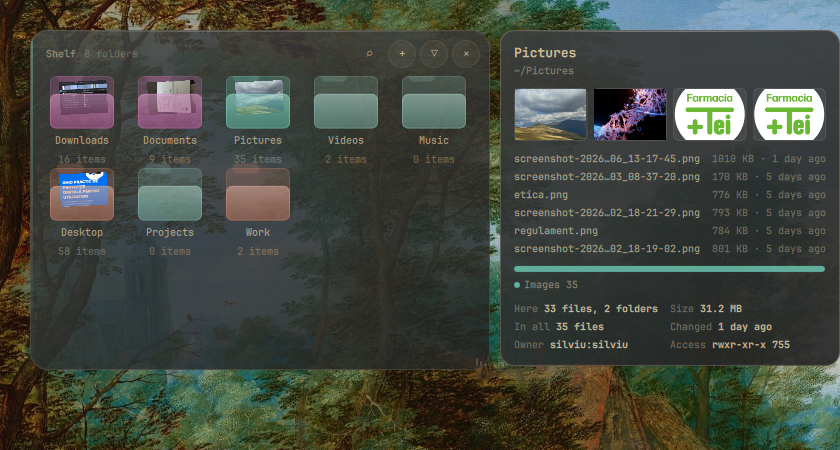
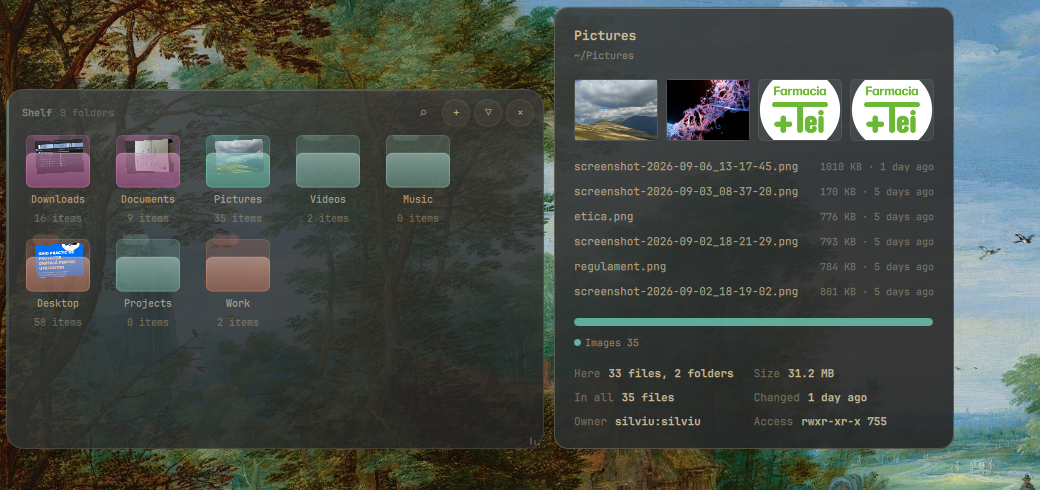
Give the shelf and the card room to breathe
Rows on the shelf now sit twice as far apart as columns do. A grid of
folders reads as rows of things, so the vertical rhythm is what separates
one shelf from the next; matching the two gaps made it read as one
undifferentiated field. List layout keeps the tighter gap, because its rows
are already tall enough to tell apart.

The preview card is wider and everything inside it has more air: larger
margins, more space between its four blocks, taller entry rows, and the
file names and the facts at body size instead of caption. It was legible
before and dense; the numbers are the reason to hover a folder and they
should not have to be hunted for.

preview.png is retaken against the running shelf rather than kept from the
previous layout, which is the listing card and the easiest thing here to
let go stale.

Claude-Session: https://claude.ai/code/session_01Kb27poufob8qsoZYukYW7Z

diff --git a/PreviewCard.qml b/PreviewCard.qml
@@ -33,8 +33,8 @@ Item {
     return n
   }
 
-  implicitWidth: Style.space(340)
-  implicitHeight: body.implicitHeight + Style.space(28)
+  implicitWidth: Style.space(400)
+  implicitHeight: body.implicitHeight + Style.space(40)
 
   GlassPanel {
     anchors.fill: parent
@@ -49,13 +49,13 @@ Item {
   Column {
     id: body
     anchors.fill: parent
-    anchors.margins: Style.space(14)
-    spacing: Style.space(10)
+    anchors.margins: Style.space(20)
+    spacing: Style.space(16)
 
     // ------------------------------------------------------------- heading
     Column {
       width: parent.width
-      spacing: Style.space(2)
+      spacing: Style.space(4)
 
       Text {
         width: parent.width
@@ -97,7 +97,7 @@ Item {
     Row {
       visible: card.thumbs.length > 0
       width: parent.width
-      spacing: Style.space(6)
+      spacing: Style.space(8)
 
       Repeater {
         model: card.thumbs
@@ -105,9 +105,9 @@ Item {
         Item {
           required property string modelData
           required property int index
-          readonly property real cell: (body.width - Style.space(6) * (card.thumbs.length - 1)) / Math.max(1, card.thumbs.length)
+          readonly property real cell: (body.width - Style.space(8) * (card.thumbs.length - 1)) / Math.max(1, card.thumbs.length)
           width: cell
-          height: cell * 0.72
+          height: cell * 0.74
 
           Rectangle {
             anchors.fill: parent
@@ -138,7 +138,7 @@ Item {
     Column {
       visible: card.recents.length > 0
       width: parent.width
-      spacing: Style.space(3)
+      spacing: Style.space(5)
 
       Repeater {
         model: card.recents
@@ -146,7 +146,7 @@ Item {
         Item {
           required property var modelData
           width: body.width
-          height: Style.space(15)
+          height: Style.space(20)
 
           Text {
             id: entryName
@@ -159,7 +159,7 @@ Item {
               ? Qt.rgba(Color.accent.r, Color.accent.g, Color.accent.b, 0.9)
               : Qt.rgba(Color.tooltip.text.r, Color.tooltip.text.g, Color.tooltip.text.b, 0.82)
             font.family: Style.font.family
-            font.pixelSize: Style.font.caption
+            font.pixelSize: Style.font.bodySmall
             elide: Text.ElideMiddle
           }
 
@@ -181,11 +181,11 @@ Item {
     Column {
       visible: card.ready && card.totalCategoryCount > 0
       width: parent.width
-      spacing: Style.space(6)
+      spacing: Style.space(10)
 
       Row {
         width: parent.width
-        height: Style.space(6)
+        height: Style.space(8)
         spacing: 1
 
         Repeater {
@@ -210,7 +210,7 @@ Item {
 
       Flow {
         width: parent.width
-        spacing: Style.space(10)
+        spacing: Style.space(14)
 
         Repeater {
           model: card.scan ? card.scan.categories : []
@@ -220,8 +220,8 @@ Item {
             spacing: Style.space(4)
 
             Rectangle {
-              width: Style.space(6)
-              height: Style.space(6)
+              width: Style.space(7)
+              height: Style.space(7)
               radius: width / 2
               anchors.verticalCenter: parent.verticalCenter
               color: {
@@ -249,8 +249,8 @@ Item {
       visible: card.ready
       width: parent.width
       columns: 2
-      columnSpacing: Style.space(12)
-      rowSpacing: Style.space(4)
+      columnSpacing: Style.space(20)
+      rowSpacing: Style.space(9)
 
       Fact {
         label: "Here"

diff --git a/ShelfWindow.qml b/ShelfWindow.qml
@@ -409,7 +409,13 @@ Scope {
       anchors.bottomMargin: Style.space(12)
       clip: true
 
-      readonly property int gap: Style.space(8)
+      // Columns sit closer than rows do. A grid of folders reads as rows of
+      // things, so the vertical rhythm is what separates one shelf from the
+      // next; matching the two gaps makes it read as an undifferentiated
+      // field instead. In list layout there is only one column and the rows
+      // are already tall, so they want the tighter gap back.
+      readonly property int gap: Style.space(10)
+      readonly property int rowGap: host.listMode ? Style.space(6) : Style.space(20)
       readonly property int cellW: host.listMode
         ? width
         : Math.max(Style.space(52), host.tileSize + Style.space(16))
@@ -421,7 +427,7 @@ Scope {
         : Math.max(1, Math.floor((width + gap) / (cellW + gap)))
 
       readonly property int rows: Math.ceil(host.visibleFolders.length / Math.max(1, columns))
-      readonly property int contentHeight: rows * cellH + Math.max(0, rows - 1) * gap
+      readonly property int contentHeight: rows * cellH + Math.max(0, rows - 1) * rowGap
 
       // Where a tile ends up once the one being dragged is taken out of the
       // order and put back somewhere else. Everything between the two indices
@@ -439,11 +445,11 @@ Scope {
       // Slots, drags and hit tests all live in the flickable's content item,
       // so none of them has to know how far the shelf is scrolled.
       function slotX(slot) { return (slot % columns) * (cellW + gap) }
-      function slotY(slot) { return Math.floor(slot / columns) * (cellH + gap) }
+      function slotY(slot) { return Math.floor(slot / columns) * (cellH + rowGap) }
 
       function slotAt(x, y) {
         var col = Math.max(0, Math.min(columns - 1, Math.floor(x / (cellW + gap))))
-        var row = Math.max(0, Math.floor(y / (cellH + gap)))
+        var row = Math.max(0, Math.floor(y / (cellH + rowGap)))
         return Math.max(0, Math.min(host.visibleFolders.length - 1, row * columns + col))
       }
 

diff --git a/Fact.qml b/Fact.qml
@@ -12,20 +12,20 @@ Row {
   property color tone: Color.tooltip.text
   property bool dimmed: false
 
-  spacing: Style.space(6)
+  spacing: Style.space(8)
 
   Text {
     text: fact.label
     color: Qt.rgba(fact.tone.r, fact.tone.g, fact.tone.b, 0.45)
     font.family: Style.font.family
-    font.pixelSize: Style.font.caption
+    font.pixelSize: Style.font.bodySmall
   }
 
   Text {
     text: fact.value
     color: Qt.rgba(fact.tone.r, fact.tone.g, fact.tone.b, fact.dimmed ? 0.62 : 0.95)
     font.family: Style.font.family
-    font.pixelSize: Style.font.caption
+    font.pixelSize: Style.font.bodySmall
     font.bold: !fact.dimmed
   }
 }
